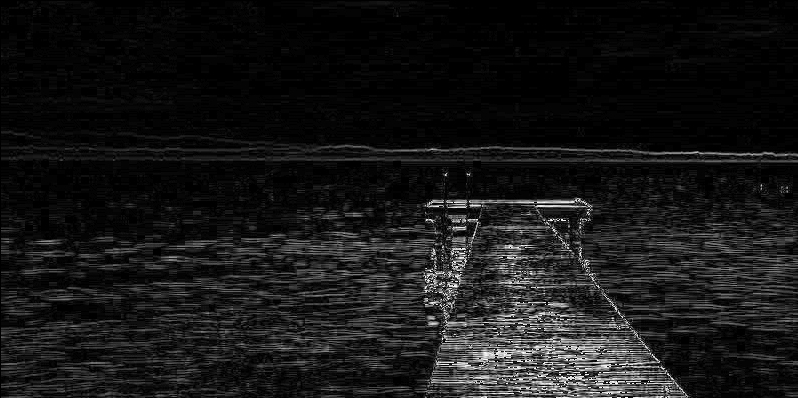
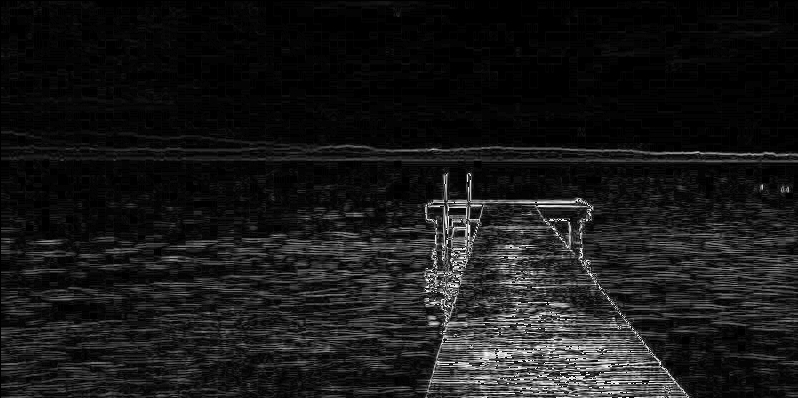
Update dsp/lab1: fix sobel filter

Changed region(s): [[0.5113, 0.4221, 0.8722, 1.0], [0.9624, 0.4523, 0.9925, 0.4824]]

diff --git a/dsp/lab1/filter/sobel.go b/dsp/lab1/filter/sobel.go
@@ -8,9 +8,9 @@ import (
 
 var (
 	kernelX = [3][3]int8{
-		{-1, 0, 1},
-		{-2, 0, 2},
-		{-1, 0, 1},
+		{1, 0, -1},
+		{2, 0, -2},
+		{1, 0, -1},
 	}
 
 	kernelY = [3][3]int8{
@@ -25,12 +25,14 @@ func toGrayscale(img image.Image) image.Image {
 	min := img.Bounds().Min
 
 	var filtered = image.NewGray(image.Rect(max.X, max.Y, min.X, min.Y))
+
 	for x := 0; x < max.X; x++ {
 		for y := 0; y < max.Y; y++ {
-			grayColor := color.GrayModel.Convert(img.At(x, y))
-			filtered.Set(x, y, grayColor)
+			//grayColor := color.GrayModel.Convert(img.At(x, y))
+			filtered.Set(x, y, img.At(x, y))
 		}
 	}
+
 	return filtered
 }
 
@@ -43,8 +45,10 @@ func getGrayPixel(c color.Color) uint8 {
 func ApplySobel(img image.Image) image.Image {
 	img = toGrayscale(img)
 	bounds := img.Bounds()
+
 	var pixel color.Color
 	var filtered = image.NewGray(image.Rect(bounds.Max.X-2, bounds.Max.Y-2, bounds.Min.X, bounds.Min.Y))
+
 	for x := 1; x < bounds.Max.X - 1; x++ {
 		for y := 1; y < bounds.Max.Y - 1; y++ {
 			fX, fY := applyKernels(img, x, y)
@@ -53,11 +57,13 @@ func ApplySobel(img image.Image) image.Image {
 			filtered.SetGray(x, y, pixel.(color.Gray))
 		}
 	}
+
 	return filtered
 }
 
 func applyKernels(img image.Image, x, y int) (uint32, uint32) {
 	var fX, fY int
+
 	curX := x - 1
 	curY := y - 1
 
@@ -66,11 +72,41 @@ func applyKernels(img image.Image, x, y int) (uint32, uint32) {
 			pixel := getGrayPixel(img.At(curX, curY))
 			fX += int(kernelX[i][j]) * int(pixel)
 			fY += int(kernelY[i][j]) * int(pixel)
+			if curX > 0 {
+				curX = curX + j - 1
+			}
 		}
-		curX = x - 1
 		curY++
 	}
 
 	uFX, uFY := uint32(math.Abs(float64(fX))), uint32(math.Abs(float64(fY)))
 	return uFX, uFY
+}
+
+
+func ApplySobel1(img image.Image) image.Image {
+	greyImg := toGrayscale(img)
+	bounds := greyImg.Bounds()
+	var filtered = image.NewGray(image.Rect(bounds.Max.X-2, bounds.Max.Y-2, bounds.Min.X, bounds.Min.Y))
+
+	for x := 1; x < bounds.Max.X-1; x++ {
+		for y := 1; y < bounds.Max.Y-1; y++ {
+			var fX, fY int
+			var pixel color.Color
+			for i := 0; i < 3; i++ {
+				for j := 0; j < 3; j++ {
+					xn := x+i-1
+					yn := y+j-1
+					fX += int(kernelX[i][j]) * int(getGrayPixel(img.At(xn, yn)))
+					fY += int(kernelY[i][j]) * int(getGrayPixel(img.At(xn, yn)))
+				}
+			}
+			ufX, ufY := uint32(math.Abs(float64(fX))), uint32(math.Abs(float64(fY)))
+			v := uint32(math.Ceil(math.Sqrt(float64((ufX * ufX) + (ufY * ufY)))))
+			pixel = color.Gray{Y: uint8(v)}
+			filtered.SetGray(x, y, pixel.(color.Gray))
+		}
+	}
+
+	return filtered
 }

diff --git a/dsp/lab1/main.go b/dsp/lab1/main.go
@@ -12,35 +12,37 @@ import (
 	"strconv"
 )
 
-func prepareVars() (float64, float64, error) {
+func prepareVars() (string, float64, float64, error) {
 	args := os.Args
 
-	if len(args) < 3 {
-		return 0, 0, fmt.Errorf("need minimum 3 arguments")
+	if len(args) < 4 {
+		return "", 0, 0, fmt.Errorf("need minimum 4 arguments")
 	}
 
-	c, err := strconv.ParseFloat(args[1], 64)
+	filename := args[1]
+
+	c, err := strconv.ParseFloat(args[2], 64)
 	if err != nil {
-		return 0, 0, err
+		return "", 0, 0, err
 	}
 
-	y, err := strconv.ParseFloat(args[2], 64)
+	y, err := strconv.ParseFloat(args[3], 64)
 	if err != nil {
-		return 0, 0, err
+		return "", 0, 0, err
 	}
 
-	return c, y, nil
+	return filename, c, y, nil
 }
 
 func main() {
-	c, y, err := prepareVars()
+	filename, c, y, err := prepareVars()
 	if err != nil {
 		log.Fatal(err)
 	}
 
 	curDir, _ := os.Getwd()
 	path := curDir+"/dsp/lab1/images/"
-	filename := "1.jpg"
+	filename += ".jpg"
 
 
 	img, err := imgio.Open(path+filename)

diff --git a/dsp/lab1/hist/hist.go b/dsp/lab1/hist/hist.go
@@ -19,25 +19,12 @@ func getImageSize(r *os.File) {
 	fmt.Printf("filename: %s\twidht: %d\theight: %d\n", r.Name(), im.Width, im.Height)
 }
 
-func CalcHistogramComponents(path, filename string) error {
-	file, err := os.Open(path+filename)
-	if err != nil {
-		return err
-	}
-	defer file.Close()
-
-	//getImageSize(file)
-
-	m, _, err := image.Decode(file)
-	if err != nil {
-		return err
-	}
-
-	bounds := m.Bounds()
+func CalcHistogramComponents(img image.Image) error {
+	bounds := img.Bounds()
 	var hist [16][4]int
 	for y := bounds.Min.Y; y < bounds.Max.Y; y++ {
 		for x := bounds.Min.X; x < bounds.Max.X; x++ {
-			r, g, b, a := m.At(x, y).RGBA()
+			r, g, b, a := img.At(x, y).RGBA()
 			hist[r>>12][0]++
 			hist[g>>12][1]++
 			hist[b>>12][2]++

diff --git a/dsp/lab1/gamma/gamma.go b/dsp/lab1/gamma/gamma.go
@@ -38,7 +38,7 @@ func AddGamma(img image.Image, c, y float64) *image.RGBA {
 	filler := make([]uint8, 256)
 
 	for i := 0; i < 256; i++ {
-		filler[i] = clamp(c + math.Pow(float64(i) / 255, y) * 255.0)
+		filler[i] = clamp(c * math.Pow(float64(i) / 255, y) * 255.0)
 	}
 
 	bounds := img.Bounds()
